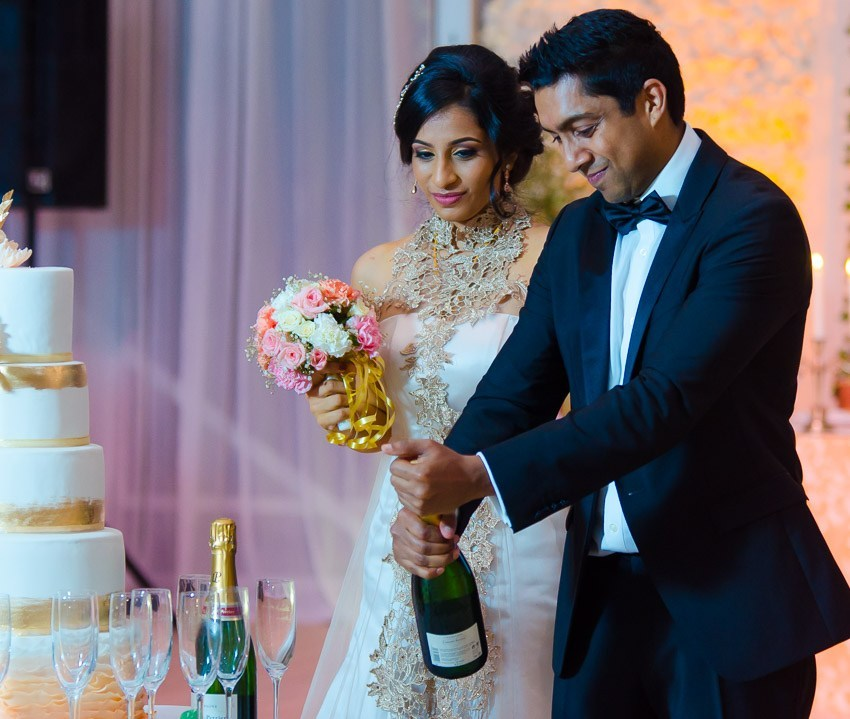
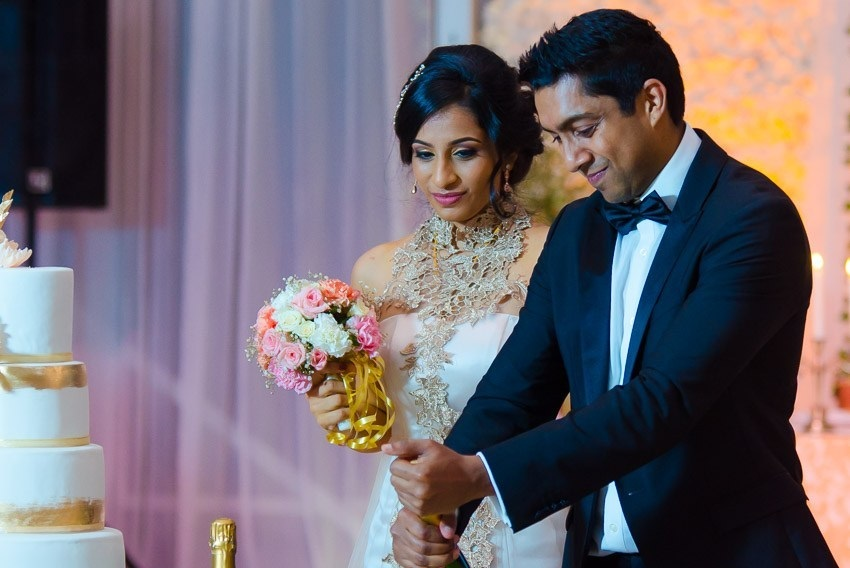
Story section modified. (#11)

diff --git a/index.html b/index.html
@@ -650,11 +650,11 @@
 			<div class="row">
 				<div class="col-lg-4 col-md-4 col-sm-6">
 					<div class="story-item">
-						<img src="img/gallery/18.jpg" alt="The Spectacular Ranchi Rendezvous" class="story-item-img">
+						<img src="img/story_br/bali%20rendezvous.jpg" alt="The Spectacular Bali Rendezvous" class="story-item-img">
 						<div class="story-item-content">
 								<h3 class="story-item-title">The Spectacular Bali Rendezvous</h3>
 								<div class="story-item-text">
-									<p>Vikalp and Nikita tie the knot in a breathtaking Ranchi destination wedding...</p>
+									<p>Vikalp and Nikita tie the knot in a breathtaking Bali destination wedding...</p>
 								</div>
 								<a href="story-bali-rendezvous.html" target="_blank" class="story-item-read">Read <i class="fas fa-long-arrow-alt-right story-item-read-icon"></i>
 								</a>
@@ -663,7 +663,7 @@
 				</div>
 				<div class="col-lg-4 col-md-4 col-sm-6">
 					<div class="story-item">
-						<img src="img/gallery/7.jpg" alt="The Perfect Mauritian Soiree" class="story-item-img">
+						<img src="img/story_ms/MAURITIAN%20SOIREE%205.jpg" alt="The Perfect Mauritian Soiree" class="story-item-img">
 						<div class="story-item-content">
 						<h3 class="story-item-title">The Perfect Mauritian Soiree</h3>
 						<div class="story-item-text">
@@ -677,7 +677,7 @@
 				<div class="clearfix clearfix-medium"></div>
 				<div class="col-lg-4 col-md-4 col-sm-6">
 					<div class="story-item">
-						<img src="img/gallery/9.jpg" alt="The Sri Lankan Wedding Extravaganza" class="story-item-img">
+						<img src="img/story_swe/MMB_6251-226.png" alt="The Sri Lankan Wedding Extravaganza" class="story-item-img">
 						<div class="story-item-content">
 							<h3 class="story-item-title">The Sri Lankan Wedding Extravaganza</h3>
 							<div class="story-item-text">

diff --git a/story_perfect_mauritian.html b/story_perfect_mauritian.html
@@ -74,7 +74,7 @@
     	<div class="container">
     		<div class="row">
     			<div class="story-container">
-					<img src="img/story_ms/mauritian_soiree_3.jpg" alt="" class="theme-img-pos">
+					<img src="img/story_ms/mauritian_soiree_bride.jpg" alt="" class="theme-img-pos">
 					<img src="img/story_ms/mauritian_soiree_6.jpg" alt="" class="theme-img-pos">
 					<p class="block-content-align">An NRI-Punjabi Mauritius destination wedding that made us believe in fairy tales. There are always some weddings where we, as wedding planners, want to keep our job and tasks aside and join in on the fun. Saurabh and Namita’s wedding soiree was one such celebration ! Since the very beginning, we received so much cooperation and warmth from both families that it didn’t even really feel like we were there working.</p>
 					<p class="block-content-align">It was such a pleasure to plan Saurabh and Namita’s wedding and create beautiful memories for them. They had an easygoing chemistry that made it a breeze to make decisions regarding various events ! They gave us the time and patience that is rare considering how busy wedding ceremonies usually are.</p>
